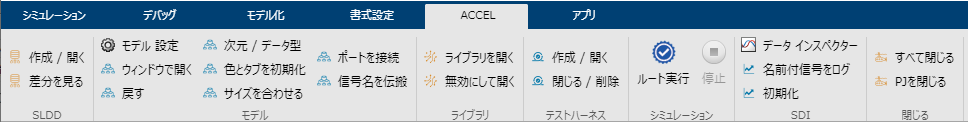
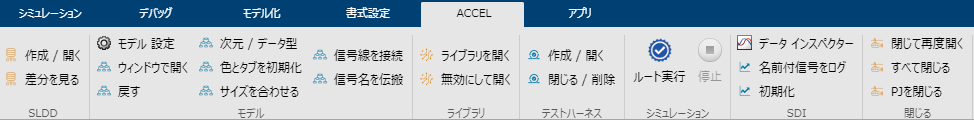
revise connect line script

diff --git a/tshintai_simulinkcustomtab/connect_rename_log_line_tshintaiCustomTab.m b/tshintai_simulinkcustomtab/connect_rename_log_line_tshintaiCustomTab.m
@@ -19,10 +19,46 @@ selected_lines = find_system(gcs,...
     'Type','Line', ...
     'Selected','on');
 
+% 一つの信号線を選択していても、分岐している信号線は複数のハンドルを持つ。
+% そのため、同じ線かどうかをここで判定する。
+selected_lines = check_line_duplicated(selected_lines);
+
 if numel(selected_lines) == 1
     connect_line_to_port(selected_lines);
 else
     connect_block_to_block_repeatedly();
+end
+
+end
+
+function valid_line_handle = check_line_duplicated(selected_lines)
+
+if numel(selected_lines) < 1.5
+
+    valid_line_handle = selected_lines;
+
+else
+
+    % source_handle_listはハンドル、ハンドルの数を格納する
+    source_handle_list = cell(numel(selected_lines), 2);
+
+    for i = 1:numel(selected_lines)
+        source_handle_list{i, 1} = get_param(selected_lines(i), 'SrcPortHandle');
+        source_handle_list{i, 2} = numel(source_handle_list{i, 1});
+    end
+
+    valid_line_handle = [];
+    if max(cell2mat(source_handle_list(:, 2))) == 1
+        vec = cell2mat(source_handle_list(:, 1));
+        if max(vec - mean(vec)) < eps
+            valid_line_handle = selected_lines;
+        end
+    end
+
+    if ~isempty(valid_line_handle)
+        valid_line_handle = valid_line_handle(1);
+    end
+
 end
 
 end
@@ -81,6 +117,11 @@ for i = 1:numel(RM_indx)
 
     add_line(gcs, outport_handle, disconnected_inport_list{RM_indx(i), 3}, ...
         'autorouting','smart');
+end
+
+% 選択されている線が未接続（赤線）の場合は削除する
+if get_param(selected_lines, 'DstPortHandle') < 0
+    delete_line(selected_lines);
 end
 
 end

diff --git a/ReadMe.md b/ReadMe.md
@@ -164,7 +164,7 @@ edit reset_model_color_and_close_tab_tshintaiCustomTab
 edit match_block_size_tshintaiCustomTab
 ```
 
-### 2.6.「ポートを接続」ボタン
+### 2.6.「信号線を接続」ボタン
 
 
 ブロックや信号線の選択状態に応じて以下のどちらかの処理を行う。
